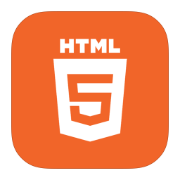
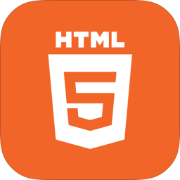
PWA

diff --git a/index.html b/index.html
@@ -13,6 +13,7 @@
 
   <title>CSS Base Framework</title>
 
+  <link rel="manifest" href="/manifest.json">
   <link rel="apple-touch-icon" href="images/apple-touch-icon.png">
   <link rel="stylesheet" href="css/normalize.css">
   <link rel="stylesheet" href="css/base.css">
